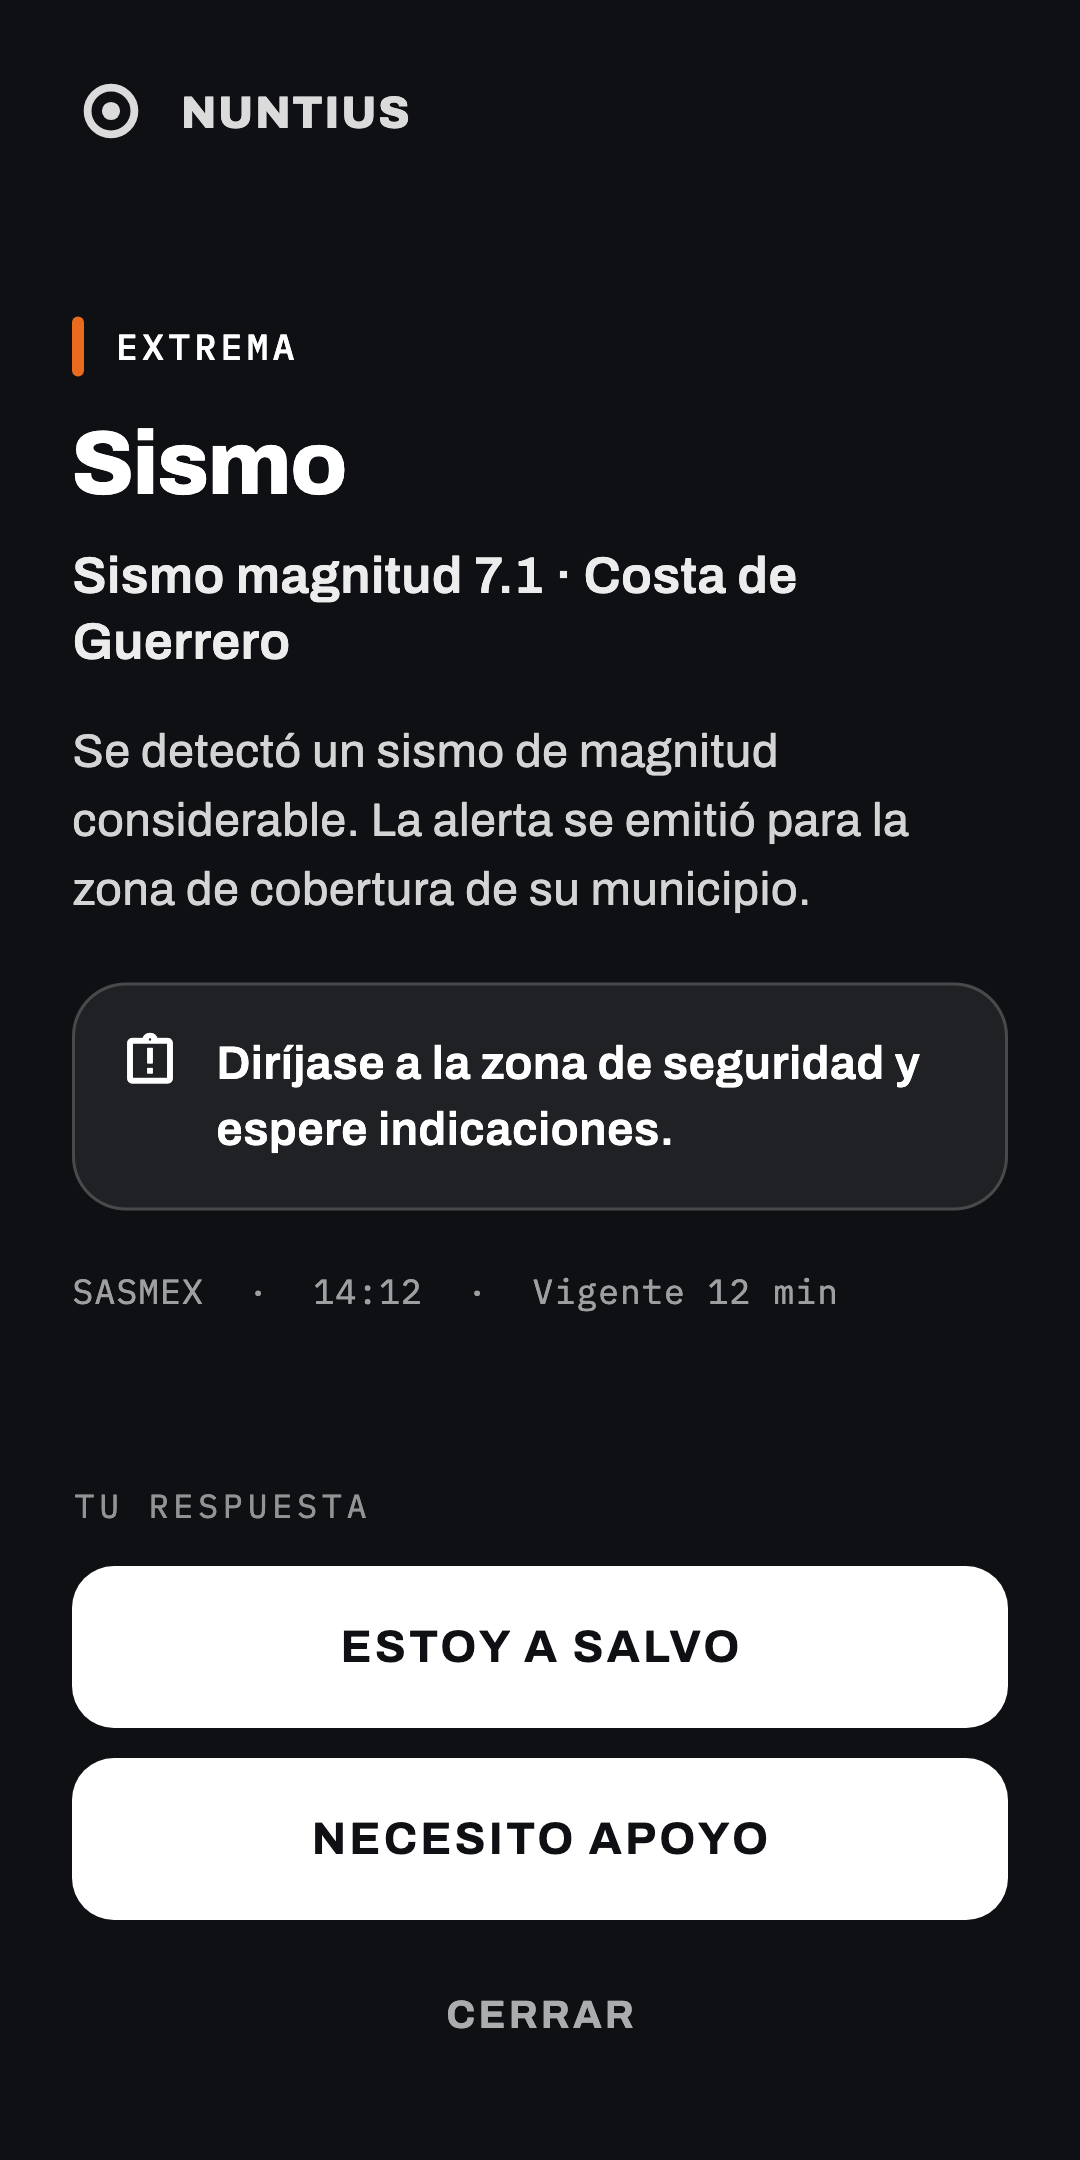
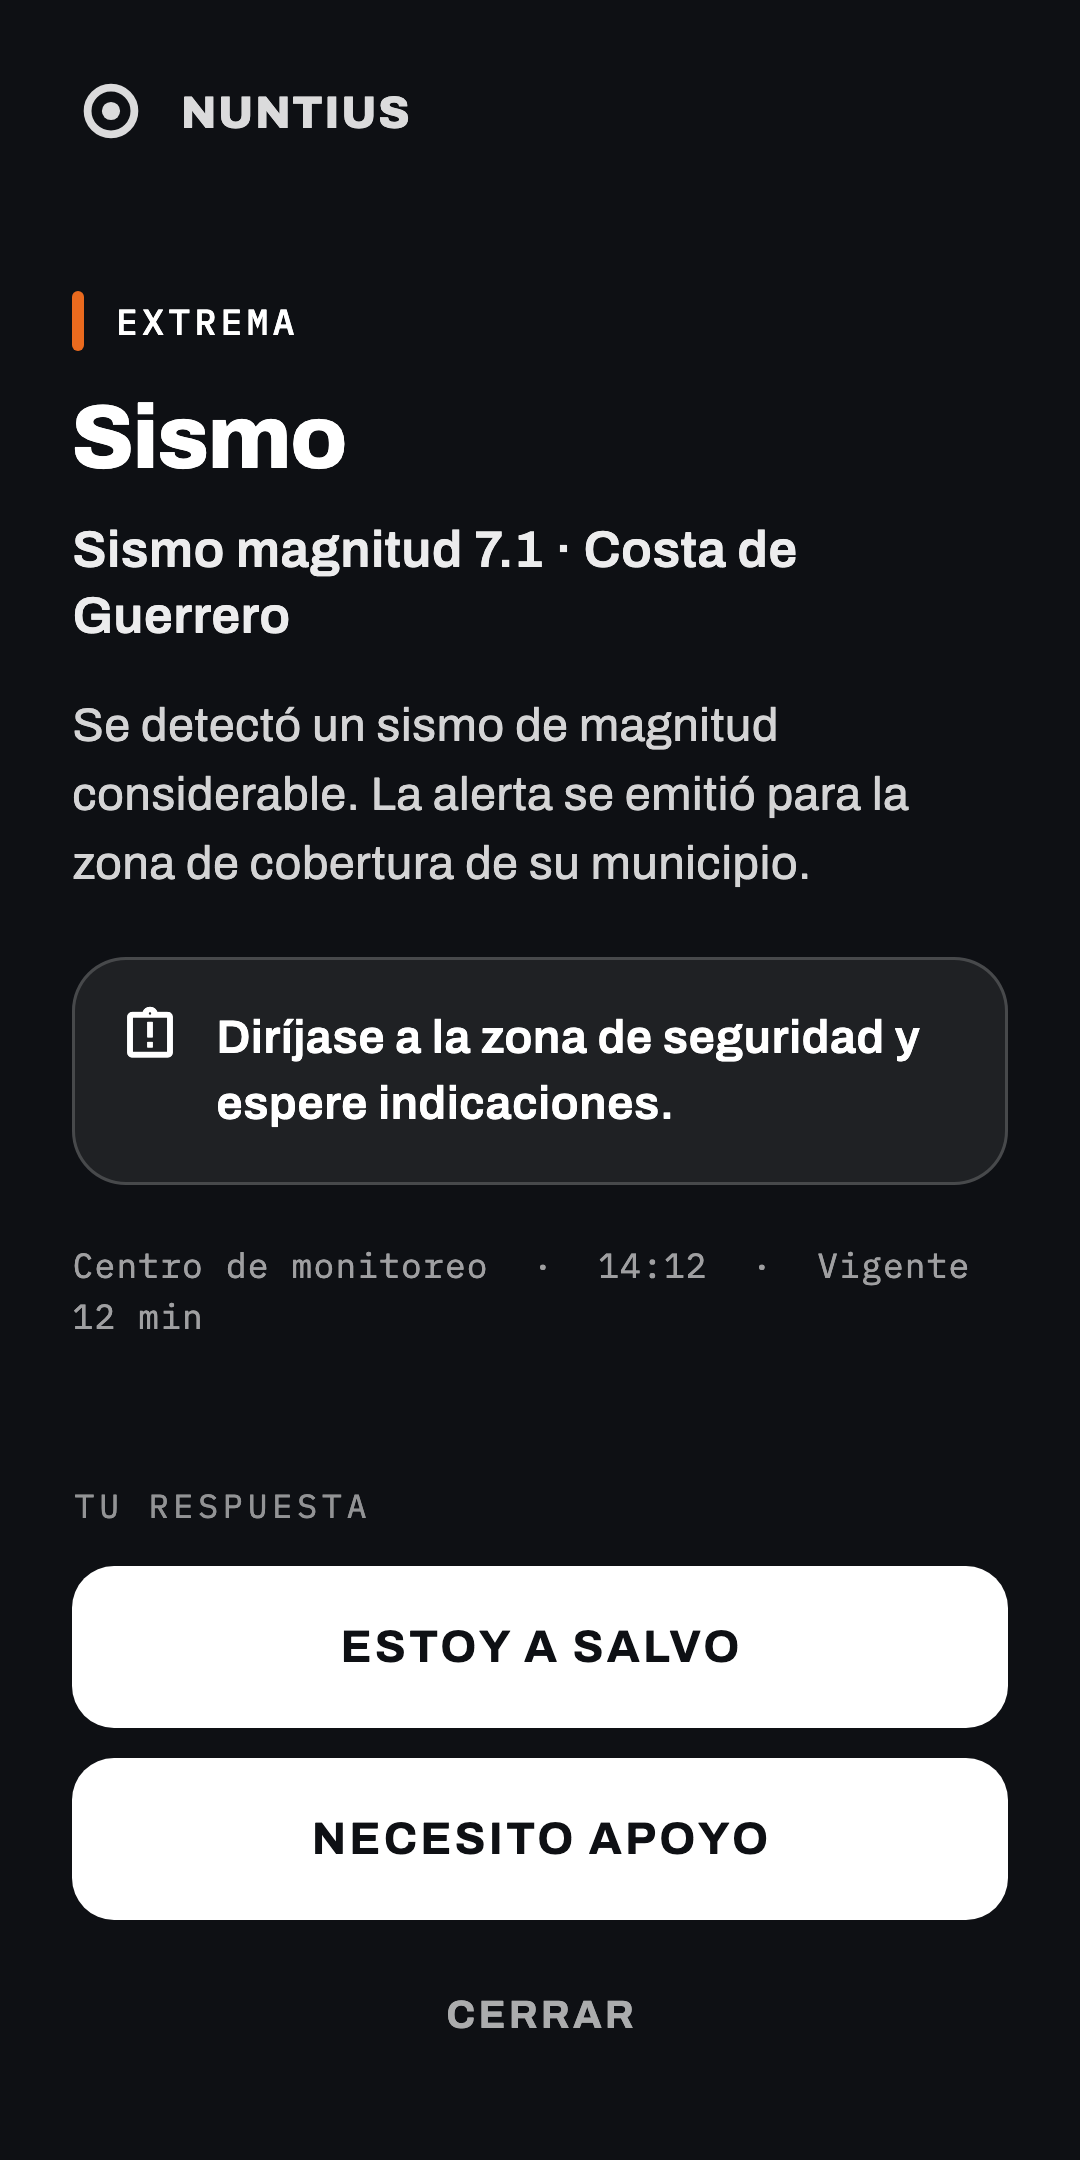
feat: aviso de no afiliación y fuentes oficiales
Google Play rechazó la app (7-sep-2026) por 'afirmaciones engañosas': la
landing lleva ahora la sección 'Aviso' —Nuntius es de MDreieck, empresa
privada, y no representa a ninguna entidad pública— con los enlaces a las
fuentes oficiales (CNPC, CENAPRED, SSN-UNAM, SMN-CONAGUA); el aviso de
privacidad dice lo mismo. Capturas regeneradas con emisor neutro y el pie
legal en el detalle.

diff --git a/index.html b/index.html
@@ -72,6 +72,15 @@
   .access ol { margin:18px 0 0; padding-left:22px; color:var(--ink-soft); }
   .access li { margin-bottom:10px; }
 
+  /* Aviso de no afiliación + fuentes oficiales (exigencia de Google Play, sep-2026) */
+  .notice p { color:var(--ink-soft); max-width:70ch; margin:0 0 14px; }
+  .notice p strong { color:var(--ink); }
+  .sources { list-style:none; margin:18px 0 0; padding:0; display:grid; gap:10px; }
+  .sources li { display:flex; flex-wrap:wrap; align-items:baseline; gap:6px 12px; padding:12px 14px; background:var(--ground); border:1px solid var(--line); border-radius:12px; }
+  .sources a { color:var(--ink); text-decoration:none; font-weight:600; border-bottom:1px solid var(--orange); }
+  .sources a:hover { color:var(--orange); }
+  .sources span { font-family:var(--mono); font-size:.72rem; letter-spacing:.06em; color:var(--ink-faint); }
+
   footer { border-top:1px solid var(--line); padding:34px 0 46px; color:var(--ink-faint); font-size:.88rem; }
   footer .wrap { display:flex; flex-wrap:wrap; gap:14px 26px; align-items:center; justify-content:space-between; }
   footer a { color:var(--ink-soft); text-decoration:none; border-bottom:1px solid var(--line); }
@@ -174,9 +183,32 @@
   </div>
 </section>
 
+<section style="padding-top:0" id="aviso">
+  <div class="wrap">
+    <div class="access notice">
+      <p class="eyebrow">Aviso</p>
+      <h2 style="margin-bottom:14px">Nuntius no es una aplicación gubernamental</h2>
+      <p>
+        Nuntius es un producto de <strong>MDreieck, S.A. de C.V.</strong>, empresa privada. Esta
+        aplicación <strong>no es una aplicación oficial</strong> del Gobierno de México ni de ningún
+        gobierno estatal o municipal, no está afiliada a ninguna dependencia pública y no representa a
+        ninguna entidad gubernamental. Las alertas que muestra las emite el centro de monitoreo de la
+        institución que opera el sistema, que es la responsable de su contenido.
+      </p>
+      <p>Para información oficial sobre emergencias y protección civil, consulta directamente a las autoridades:</p>
+      <ul class="sources">
+        <li><a href="https://www.gob.mx/proteccioncivil" rel="noopener">Coordinación Nacional de Protección Civil</a> <span>Gobierno de México · www.gob.mx</span></li>
+        <li><a href="https://www.gob.mx/cenapred" rel="noopener">Centro Nacional de Prevención de Desastres (CENAPRED)</a> <span>Gobierno de México · www.gob.mx</span></li>
+        <li><a href="http://www.ssn.unam.mx" rel="noopener">Servicio Sismológico Nacional</a> <span>UNAM · www.ssn.unam.mx</span></li>
+        <li><a href="https://smn.conagua.gob.mx" rel="noopener">Servicio Meteorológico Nacional</a> <span>CONAGUA · smn.conagua.gob.mx</span></li>
+      </ul>
+    </div>
+  </div>
+</section>
+
 <footer>
   <div class="wrap">
-    <span>© 2026 MDreieck, S.A. de C.V. · Desarrollado por Irving Guerra</span>
+    <span>© 2026 MDreieck, S.A. de C.V. · Desarrollado por Irving Guerra · <a href="#aviso">No es una app gubernamental</a></span>
     <span>
       <a href="privacidad.html">Aviso de privacidad</a>
       &nbsp;·&nbsp;

diff --git a/privacidad.html b/privacidad.html
@@ -67,7 +67,7 @@
   </div>
   <p class="eyebrow">Aplicación móvil Nuntius</p>
   <h1>Aviso de privacidad</h1>
-  <p style="margin-top:12px">Última actualización: <strong>4 de septiembre de 2026</strong></p>
+  <p style="margin-top:12px">Última actualización: <strong>7 de septiembre de 2026</strong></p>
 </header>
 
 <h2>Qué es esta aplicación</h2>
@@ -81,6 +81,15 @@
   Su función es recibir alertas de emergencia —sísmicas, meteorológicas y de otros riesgos—,
   mostrarlas aunque el teléfono esté bloqueado o en silencio, y permitir que la persona
   <strong>confirme que las recibió y reporte su situación</strong>.
+</p>
+<p>
+  MDreieck, S.A. de C.V. es una <strong>empresa privada</strong>. Nuntius <strong>no es una
+  aplicación gubernamental</strong>: no es una aplicación oficial del Gobierno de México ni de
+  ningún gobierno estatal o municipal, no está afiliada a ninguna dependencia pública y no
+  representa a ninguna entidad gubernamental. Las alertas que muestra las emite el centro de
+  monitoreo de la institución que opera el sistema, que es la responsable de su contenido. Las
+  fuentes oficiales de información sobre emergencias están enlazadas en la
+  <a href="index.html#aviso">página principal</a>.
 </p>
 
 <h2>Qué datos tratamos y para qué</h2>
